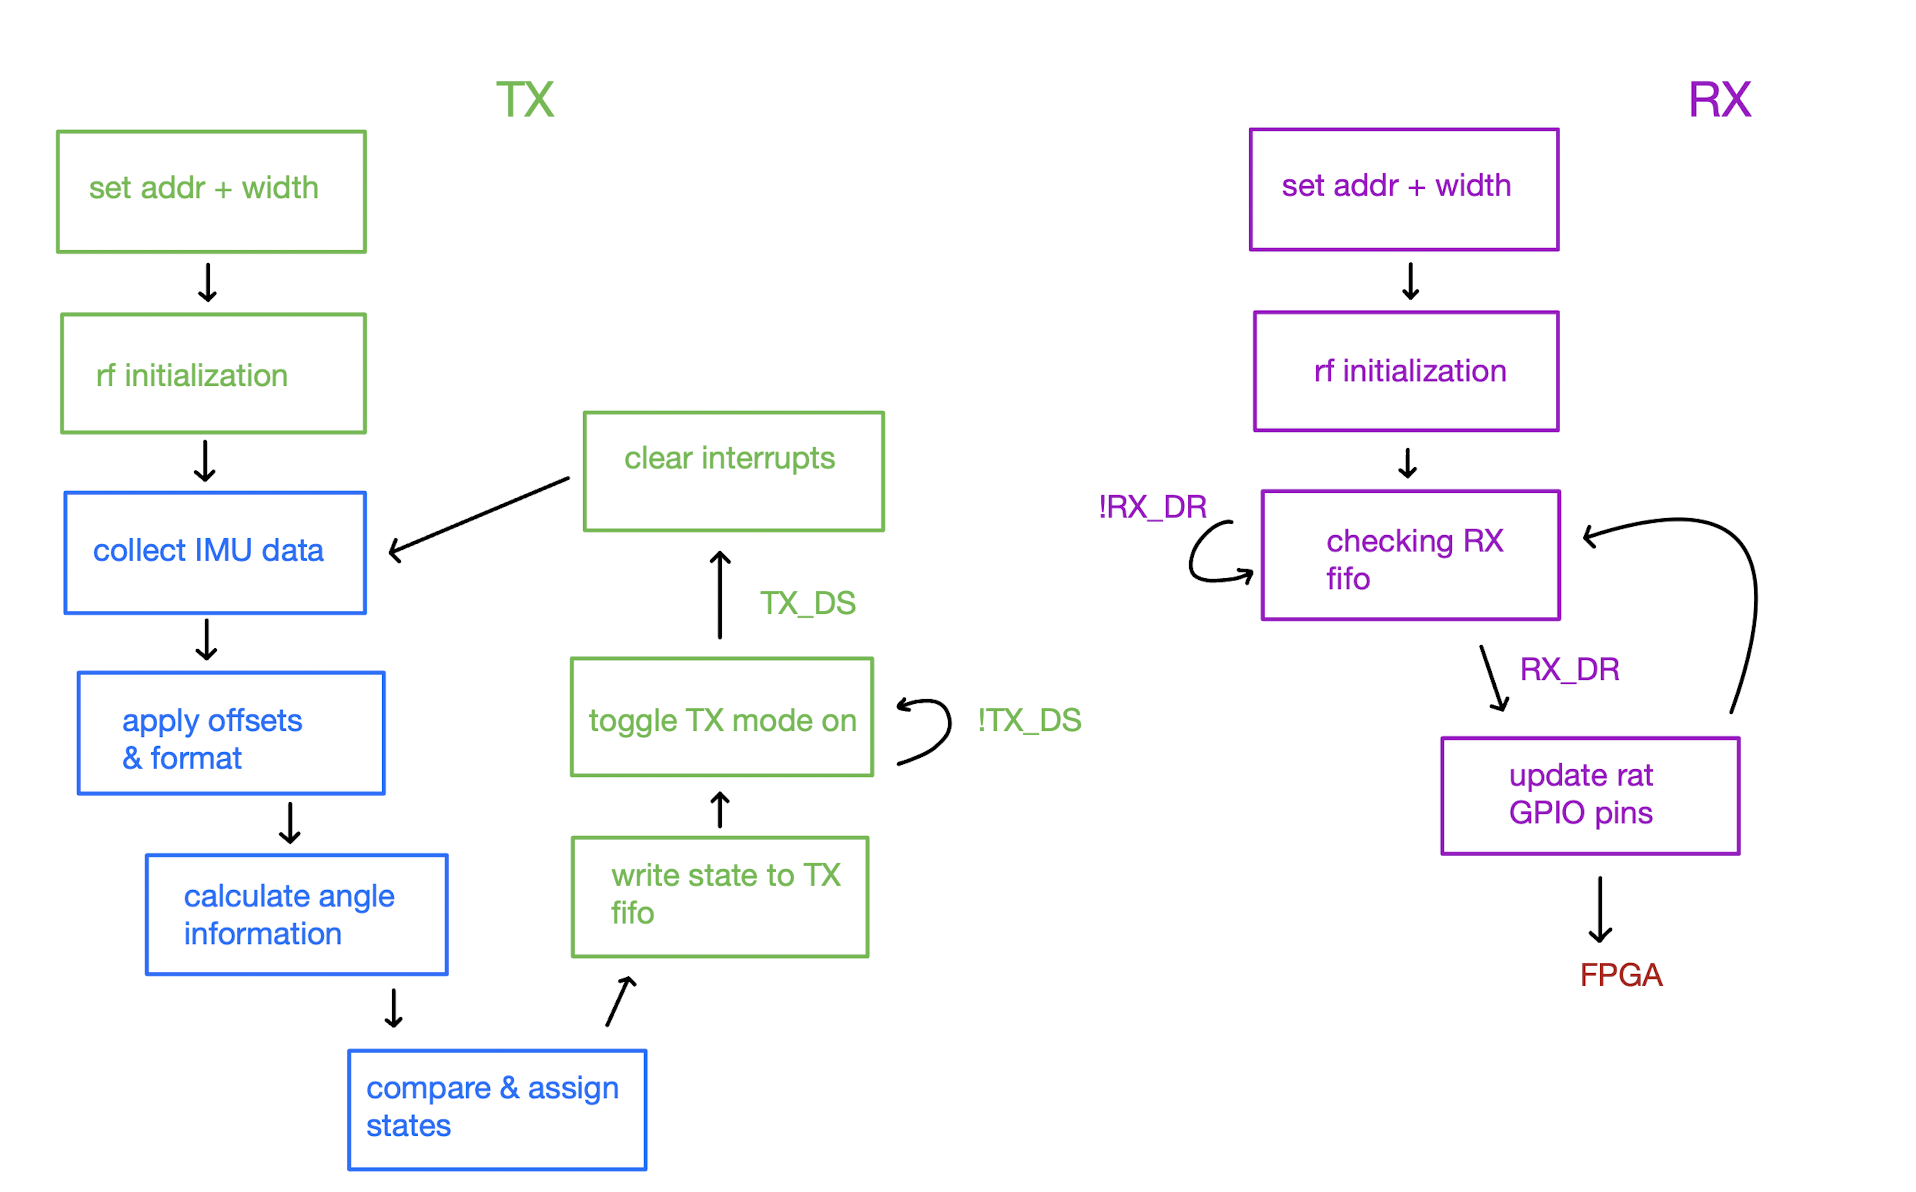
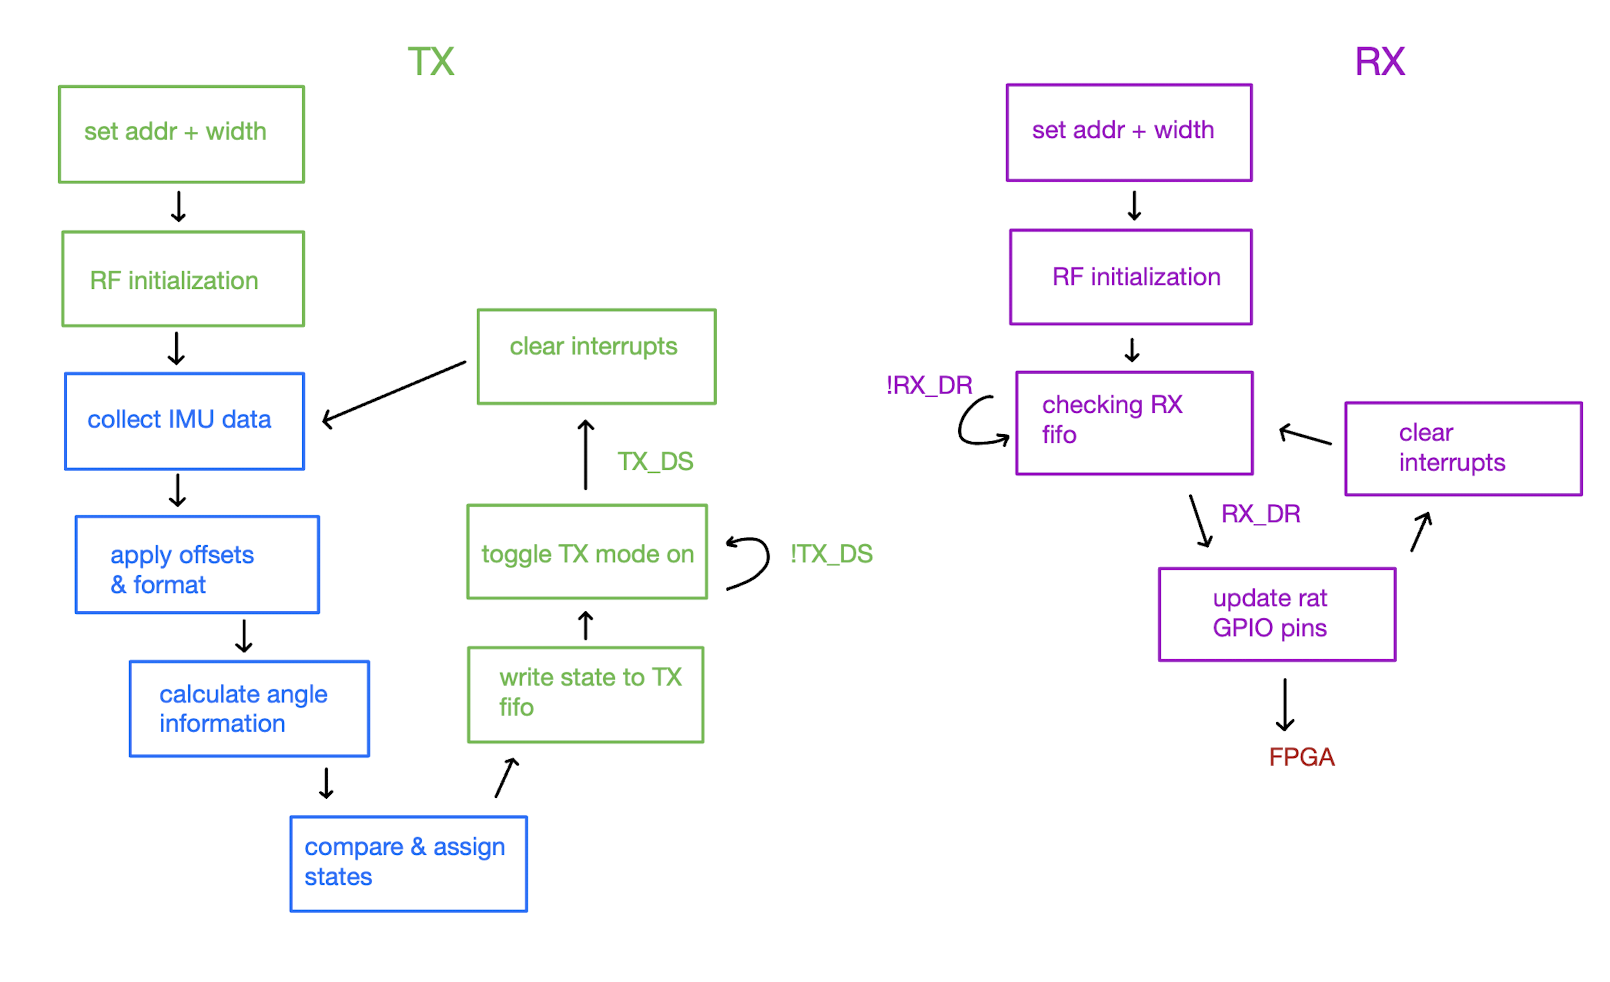
Built site for gh-pages

diff --git a/mcu.html b/mcu.html
@@ -180,10 +180,14 @@ ul.task-list li input[type="checkbox"] {
 </section>
 <section id="imu-integration" class="level2">
 <h2 class="anchored" data-anchor-id="imu-integration">IMU Integration</h2>
+<p>In order to communicate with IMU sensors, I2C was chosen. This protocol reduces the number of wires used to connect between the chips and the MCU. There were three functions written for the I2C peripheral driver: one for configuration, writing to a chip, and reading from a chip.</p>
+<p>For configuration of the I2C peripheral, it was important to correctly configure timing of the clocks going into the peripheral. The system clock was configured at 64 MHz and a prescaler of eight was used to slow down the clock going into the peripheral to 8 MHz. The I2C peripheral was configured to run at 400 kHz Fast Mode from this speed based on Table 181 from the STM32 Reference Manual.</p>
+<p>A driver was also written for the ICM20948 chip based off of the I2C driver. The chip was configured by resetting the chip, clearing sleep mode, and enabling the accelerometer and gyroscope or by sending the signals {0x06, 0x02, 0x00} through I2C to the corresponding address of the chip. Additionally, a function was written to configure the accelerometer and gyroscope readings. The sample rate divisor for both sets of readings was set to zero by writing 0x00 to the location 0x10 and to the location 0x00. The digital low pass filter onboard the ICM chip was enabled and configuration six was chosen for both sets of readings by writing to location 0x14 for the accelerometer and 0x01 for the gyroscope. Finally, in order to read gyroscope and accelerometer data, twelve bytes of data were read starting from the address 0x2D.</p>
+<p>IMU data is notoriously noisy, so multiple measures were taken to reduce noise in the data. First, an initial calibration was performed for each new user. A ten second delay in the code allowed the user to move to an appropriate position (wrists horizontal) and a hundred sets of data were averaged to get an initial offset for the IMUs. Second, a sensor fusion algorithm was used to calculate orientation from IMU data. In particular, this project uses the open source Fusion library from xioTechnologies that implements the Attitude And Heading Reference System (AHRS) algorithm. A timer was used to calculate time between sample measurements for correction within the algorithm.</p>
 </section>
 <section id="rf-communication" class="level2">
 <h2 class="anchored" data-anchor-id="rf-communication">RF Communication</h2>
-<p>This project uses one MCU to write the collected IMU data to one nRF module as the transceiver, and then use on MCU to read data from the second nRF module as the receiver.</p>
+<p>This project uses one MCU to write the collected IMU data to one nRF module as the transceiver, and then uses a second MCU to read data from the second nRF module as the receiver.</p>
 <p>The following details the process that is needed to correctly configure and use the transciever and reciever RF modules.</p>
 <ul>
 <li><strong>Transmit</strong>
@@ -212,13 +216,21 @@ ul.task-list li input[type="checkbox"] {
 <section id="mcu-code-setup" class="level2">
 <h2 class="anchored" data-anchor-id="mcu-code-setup">MCU Code Setup</h2>
 <p>The RF portions of the main_head.c, main_body.c, and main.c file put together the different commands from nrf24.c and nrf24_hal.c in the correct sequence for transcieving and recieving. main_head.c contains just the reciever code and only uses the RX() function. main_body.c includes the code needed to process IMU angle information and assign states, as well as the transciever code TX() to transmit said states. These can be called in main.c as needed to flash respective MCUs.</p>
-<p>The following diagram shows a flow of events that occur in the while loop of main for both MCUs.</p>
+<p>The following diagram shows a basic and high level flow of events that occur in the while loop of main for both MCUs.</p>
 <div class="quarto-figure quarto-figure-center">
 <figure class="figure">
 <p><img src="mcuflow.jpg" class="img-fluid figure-img"></p>
-<figcaption>Flow Diagram for MCU code</figcaption>
+<figcaption>Overall Diagram for MCU code</figcaption>
 </figure>
 </div>
+<p>The following diagram shows a more granular flow diagram of main_head.c code:</p>
+<div class="quarto-figure quarto-figure-center">
+<figure class="figure">
+<p><img src="head.jpg" class="img-fluid figure-img"></p>
+<figcaption>Flow Diagram for main_head.c</figcaption>
+</figure>
+</div>
+<p>The following diagram shows a more granular flow diagram of main_body.c code: <img src="body.jpg" class="img-fluid" alt="Flow Diagram for main_body.c"></p>
 
 
 </section>
